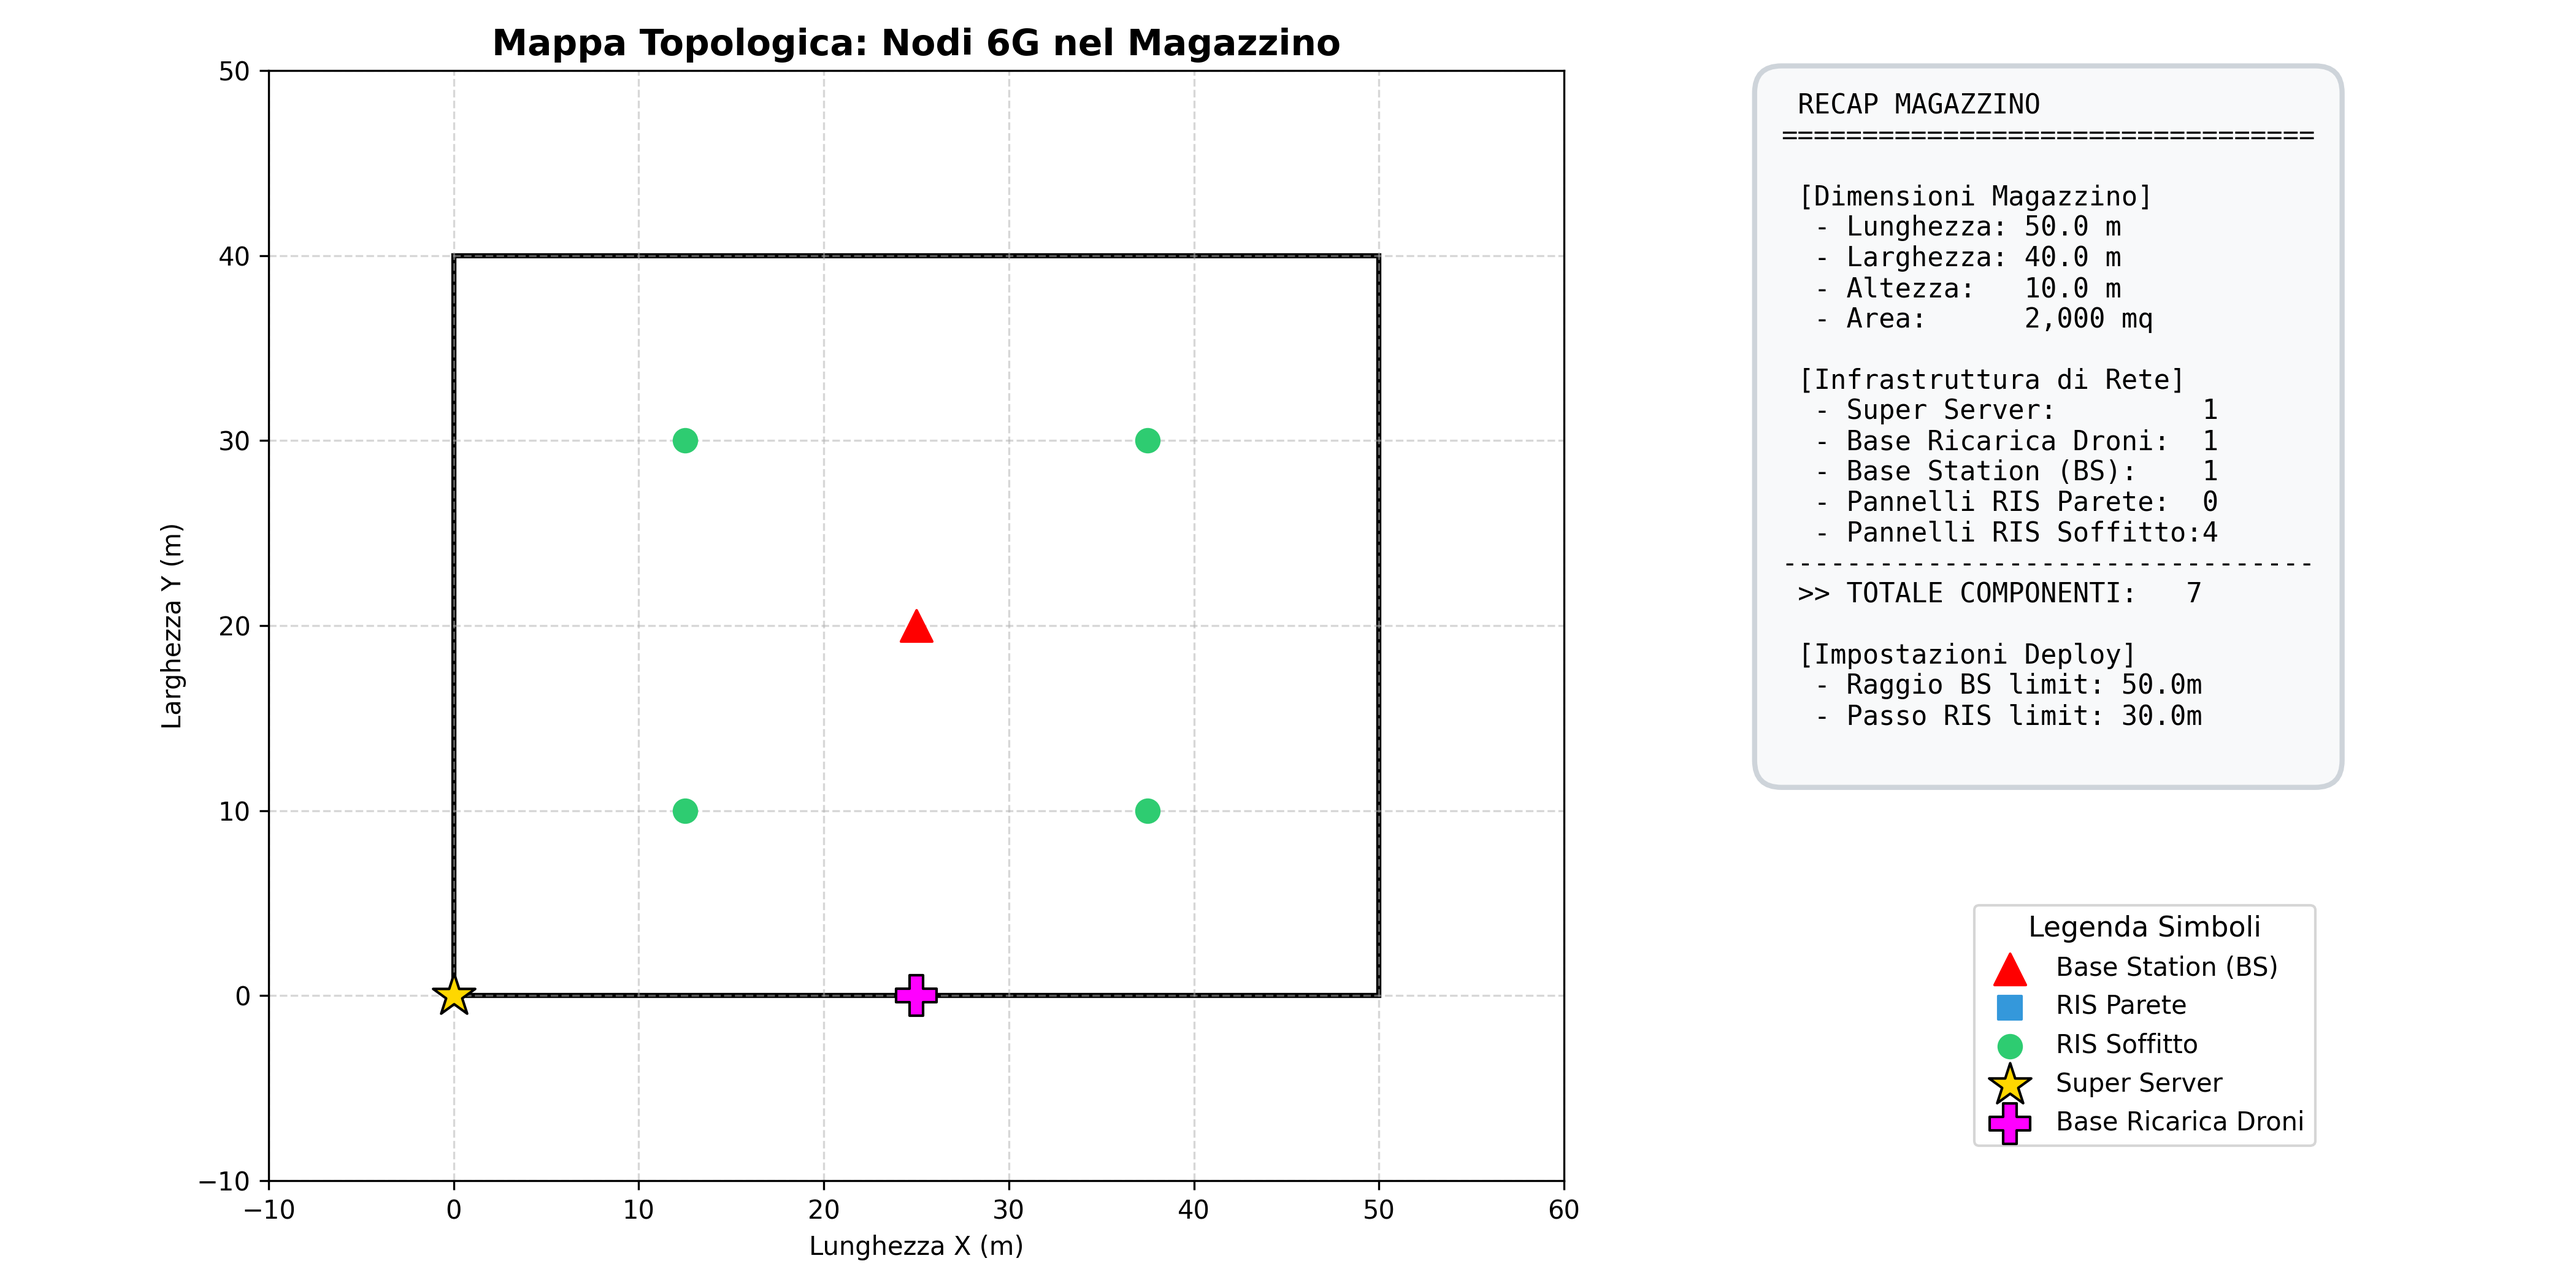
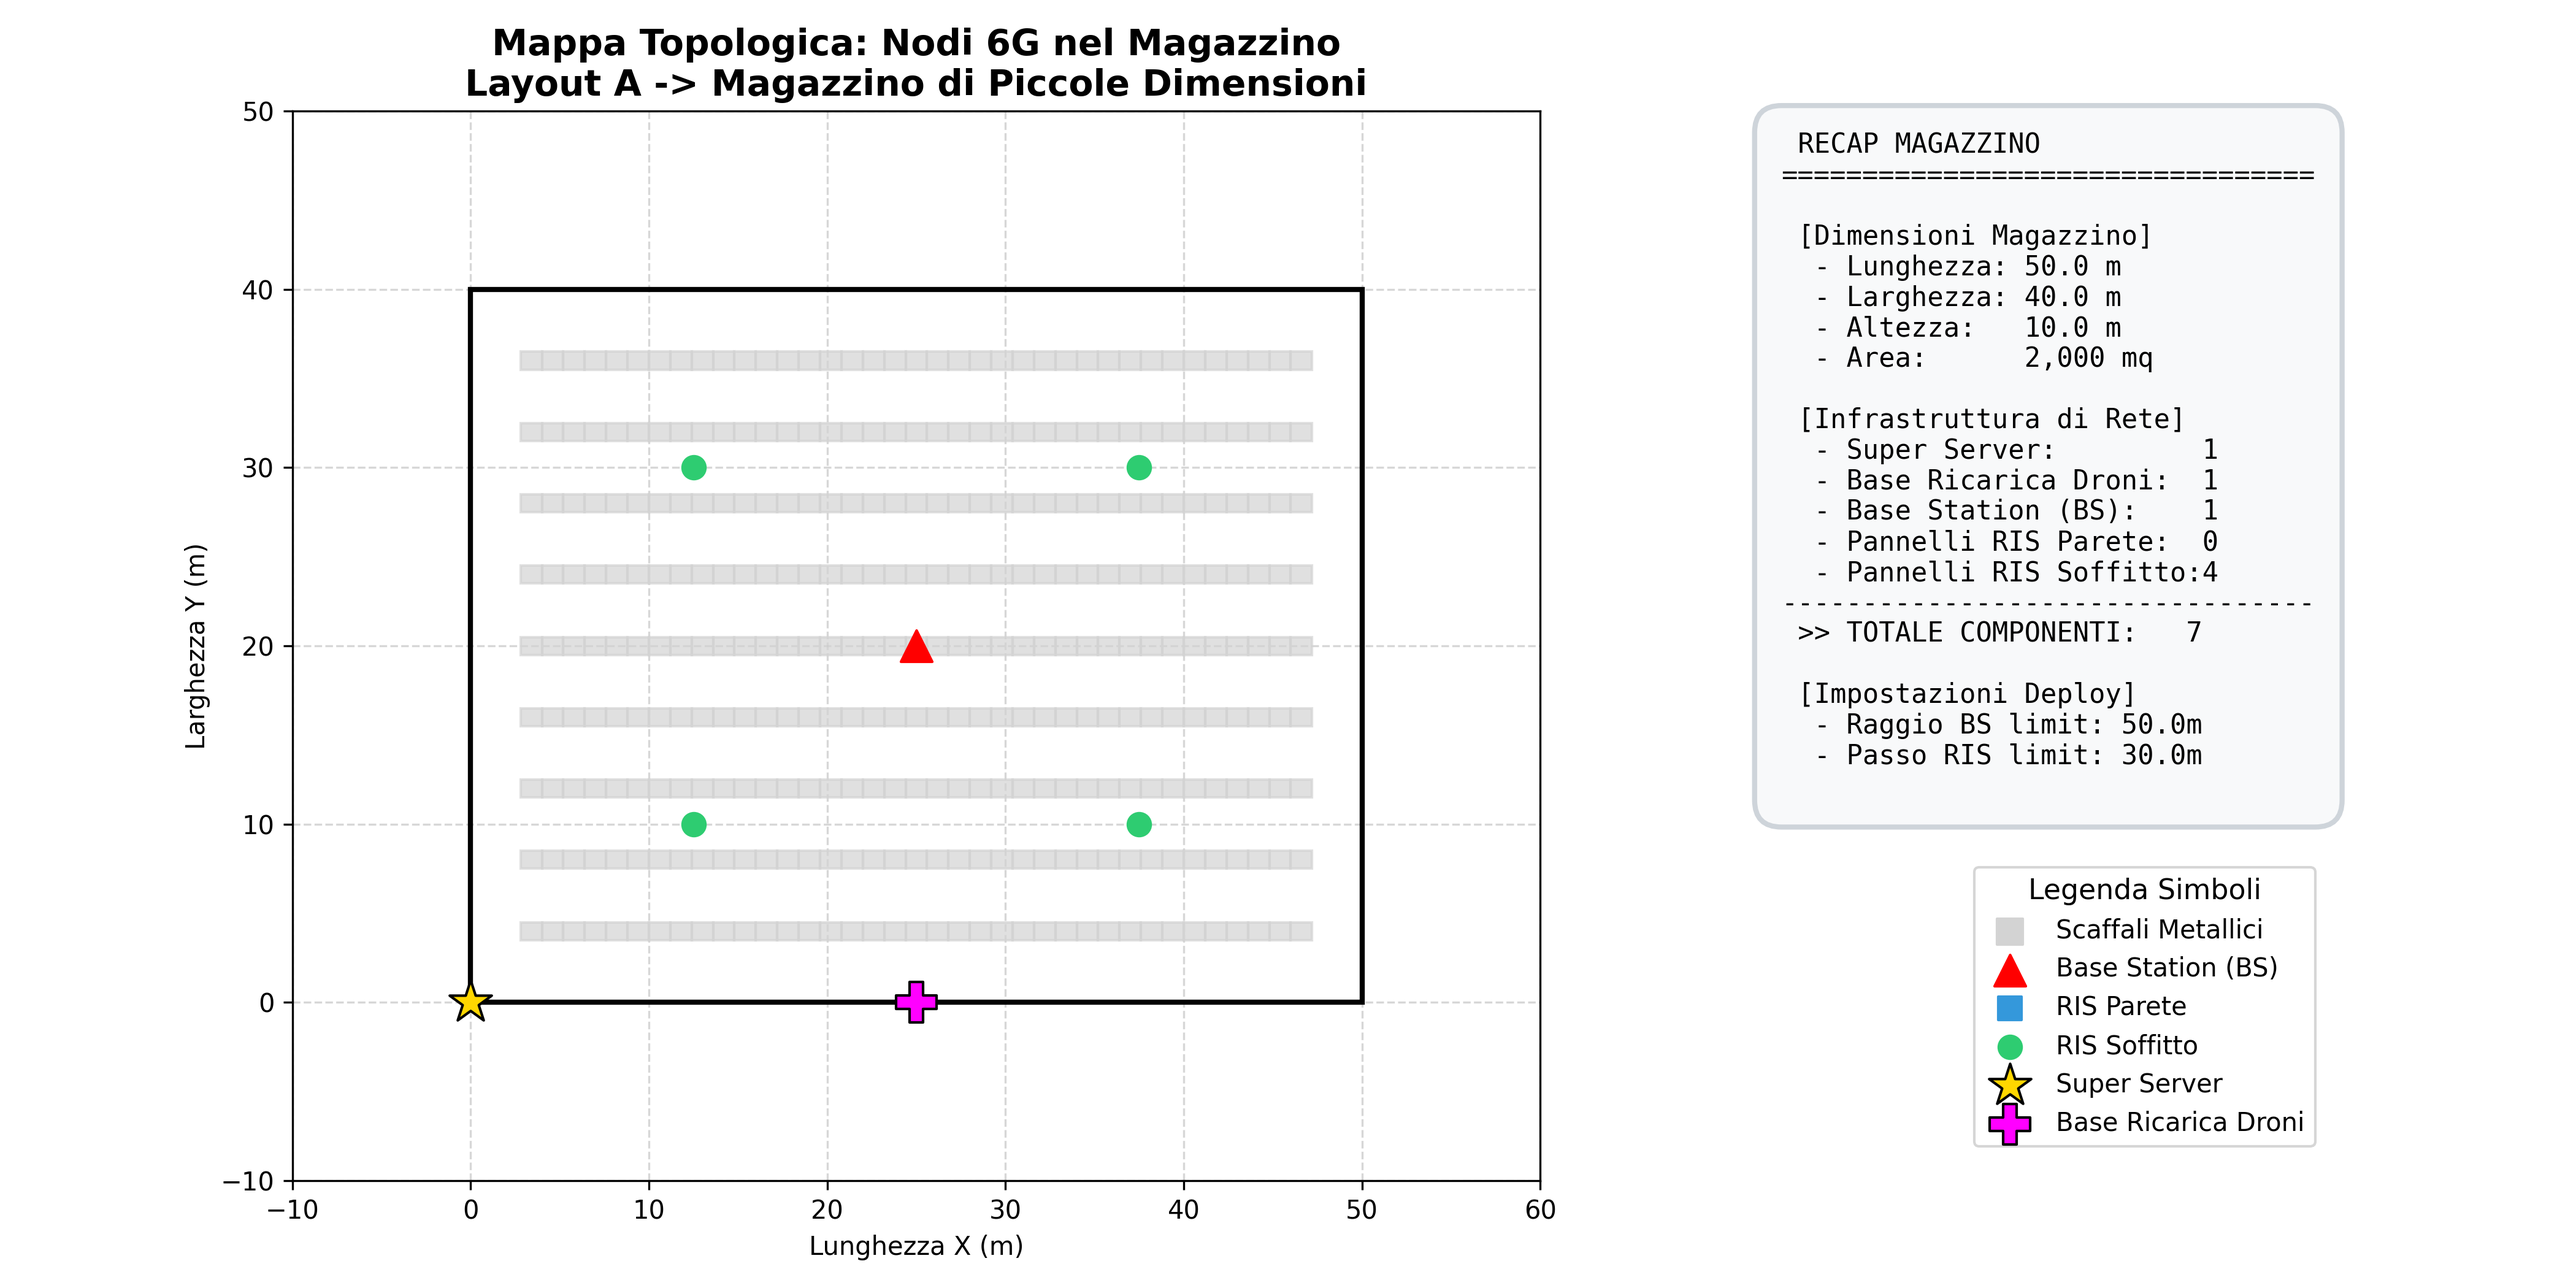
STEP 9 -> SISTEMAZIONE LAYOUT MAPPE TOPOLOGICHE

diff --git a/config.py b/config.py
@@ -130,22 +130,35 @@ class Magazzino:
         self.corridoi = []  # Coordinate Y del centro di ogni corsia
         
         # Larghezza di un corridoio (spazio vuoto tra due scaffali).
-        LARGHEZZA_CORRIDOIO = 1.5
+        LARGHEZZA_CORRIDOIO = 3.0
+        MARGIN_PERIMETRO = 2.5
+
+        spazio_disp_y = self.larghezza - (2 * MARGIN_PERIMETRO)
+        spazio_disp_x = self.lunghezza - (2 * MARGIN_PERIMETRO)
 
         # Quanti moduli "scaffale + corridoio" stanno lungo l'asse Y (larghezza)?
         passo_y = W_SCAFFALE + LARGHEZZA_CORRIDOIO
         
-        n_file_y = int(self.larghezza // passo_y)
-        if n_file_y == 0: n_file_y = 1 # Minimo 1 fila
+        n_file_y = int((spazio_disp_y + LARGHEZZA_CORRIDOIO) // passo_y)
+        if n_file_y <= 0: n_file_y = 1 # Minimo 1 fila
         
         # Quanti scaffali (L_SCAFFALE) stanno lungo l'asse X (lunghezza)?
-        n_elementi_x = int(self.lunghezza // L_SCAFFALE)
+        n_elementi_x = int(spazio_disp_x // L_SCAFFALE)
+
+        # Centratura Assoluta X e Y
+        spazio_usato_y = (n_file_y * W_SCAFFALE) + ((n_file_y - 1) * LARGHEZZA_CORRIDOIO) if n_file_y > 0 else 0
+        leftover_y = spazio_disp_y - spazio_usato_y
+        offset_y = MARGIN_PERIMETRO + max(0, leftover_y / 2.0)
+        
+        spazio_usato_x = n_elementi_x * L_SCAFFALE
+        leftover_x = spazio_disp_x - spazio_usato_x
+        offset_x = MARGIN_PERIMETRO + max(0, leftover_x / 2.0)
 
         id_scaffale = 0
         
         # Generazione griglia di scaffali
         for fila in range(n_file_y):
-            y_min = fila * passo_y
+            y_min = offset_y + fila * passo_y
             y_max = y_min + W_SCAFFALE
             
             # Il centro del corridoio si trova dopo lo scaffale
@@ -153,7 +166,7 @@ class Magazzino:
             self.corridoi.append(y_centro_corridoio)
 
             for colonna in range(n_elementi_x):
-                x_min = colonna * L_SCAFFALE
+                x_min = offset_x + colonna * L_SCAFFALE
                 x_max = x_min + L_SCAFFALE
                 
                 # Scatola di Collisione 3D per gli ostacoli (scaffali)
@@ -1171,6 +1184,14 @@ class DeploymentPlanner:
         
         self._esegui_deployment()
         
+    def _is_too_close_to_bs(self, x, y, soglia=10.0):
+        # Evita configurazioni adiacenti in cui la BS maschera/rende ridondante la RIS stessa
+        for bs in self.base_stations:
+            distanza = math.sqrt((x - bs['x'])**2 + (y - bs['y'])**2)
+            if distanza <= soglia:
+                return True
+        return False
+
     def _esegui_deployment(self):
         # 1. Deployment Server (1 istanza fissa a coordinate 0,0)
         self.server = {'x': 0.0, 'y': 0.0, 'z': 0.0}
@@ -1206,13 +1227,17 @@ class DeploymentPlanner:
             
             # Lato Inferiore (Y=0) e Superiore (Y=W_MAG)
             for x in np.arange(0, self.L_MAG, passo_ris_parete):
-                self.ris_parete.append({'x': x, 'y': 0.0, 'z': self.H_MAG / 2.0})
-                self.ris_parete.append({'x': x, 'y': self.W_MAG, 'z': self.H_MAG / 2.0})
+                if not self._is_too_close_to_bs(x, 0.0):
+                    self.ris_parete.append({'x': x, 'y': 0.0, 'z': self.H_MAG / 2.0})
+                if not self._is_too_close_to_bs(x, self.W_MAG):
+                    self.ris_parete.append({'x': x, 'y': self.W_MAG, 'z': self.H_MAG / 2.0})
                 
             # Lato Sinistro (X=0) e Destro (X=L_MAG) (escludendo gli angoli già coperti)
             for y in np.arange(passo_ris_parete, self.W_MAG, passo_ris_parete):
-                self.ris_parete.append({'x': 0.0, 'y': y, 'z': self.H_MAG / 2.0})
-                self.ris_parete.append({'x': self.L_MAG, 'y': y, 'z': self.H_MAG / 2.0})
+                if not self._is_too_close_to_bs(0.0, y):
+                    self.ris_parete.append({'x': 0.0, 'y': y, 'z': self.H_MAG / 2.0})
+                if not self._is_too_close_to_bs(self.L_MAG, y):
+                    self.ris_parete.append({'x': self.L_MAG, 'y': y, 'z': self.H_MAG / 2.0})
             
         # 4. Deployment RIS a Soffitto (A griglia interna)
         passo_ris_soffitto = R_RIS * 2.0
@@ -1224,11 +1249,14 @@ class DeploymentPlanner:
         
         for ix in range(n_ris_x):
             for iy in range(n_ris_y):
-                self.ris_soffitto.append({
-                     'x': (pr_x / 2.0) + ix * pr_x,
-                     'y': (pr_y / 2.0) + iy * pr_y,
-                     'z': self.H_MAG - 0.5
-                })
+                x_pos = (pr_x / 2.0) + ix * pr_x
+                y_pos = (pr_y / 2.0) + iy * pr_y
+                if not self._is_too_close_to_bs(x_pos, y_pos):
+                    self.ris_soffitto.append({
+                         'x': x_pos,
+                         'y': y_pos,
+                         'z': self.H_MAG - 0.5
+                    })
 
     def get_bom_report(self):
         return {
@@ -1244,7 +1272,7 @@ class DeploymentPlanner:
             'TOT_HARDWARE': 2 + len(self.base_stations) + len(self.ris_parete) + len(self.ris_soffitto)
         }
 
-    def genera_dashboard(self, filename="plot_deployment_bom.png"):
+    def genera_dashboard(self, filename="plot_deployment_bom.png", titolo_custom=None):
         print(f" > Generazione {filename} in corso ...")
         fig, (ax_mappa, ax_bom) = plt.subplots(1, 2, figsize=(14, 7), gridspec_kw={'width_ratios': [2, 1]})
         
@@ -1253,8 +1281,20 @@ class DeploymentPlanner:
         ax_mappa.set_ylim(-10, self.W_MAG + 10)
         
         # Perimetro Magazzino
-        rect = plt.Rectangle((0, 0), self.L_MAG, self.W_MAG, fill=False, color='black', linewidth=2)
+        rect = plt.Rectangle((0, 0), self.L_MAG, self.W_MAG, fill=False, color='black', linewidth=2, zorder=3)
         ax_mappa.add_patch(rect)
+        
+        # Disegno Scaffalature (Ostacoli RF)
+        temp_mag = Magazzino(self.L_MAG, self.W_MAG, self.H_MAG)
+        for scaffale in temp_mag.scaffali:
+            s_rect = plt.Rectangle((scaffale['x_min'], scaffale['y_min']), 
+                                   scaffale['x_max'] - scaffale['x_min'], 
+                                   scaffale['y_max'] - scaffale['y_min'], 
+                                   fill=True, color='lightgray', alpha=0.7, zorder=2)
+            ax_mappa.add_patch(s_rect)
+            
+        # Per far comparire gli scaffali almeno "una volta" nella legenda, uso un trucco invisibile
+        ax_mappa.scatter([], [], c='lightgray', marker='s', s=100, label='Scaffali Metallici')
         
         # Plot Base Stations
         bs_x = [b['x'] for b in self.base_stations]
@@ -1277,7 +1317,10 @@ class DeploymentPlanner:
         # Plot Base Ricarica
         ax_mappa.scatter([self.base_ricarica['x']], [self.base_ricarica['y']], c='magenta', marker='P', s=250, edgecolors='black', label='Base Ricarica Droni', zorder=6)
         
-        ax_mappa.set_title("Mappa Topologica: Nodi 6G nel Magazzino", fontsize=14, fontweight='bold')
+        titolo_base = "Mappa Topologica: Nodi 6G nel Magazzino"
+        titolo_completo = f"{titolo_base}\n{titolo_custom}" if titolo_custom else titolo_base
+        ax_mappa.set_title(titolo_completo, fontsize=14, fontweight='bold')
+        
         ax_mappa.set_xlabel("Lunghezza X (m)")
         ax_mappa.set_ylabel("Larghezza Y (m)")
         # La legenda verrà posizionata nel pannello di destra
@@ -1427,9 +1470,10 @@ if __name__ == "__main__":
             print("2. [Test 2] Resilienza Rete e Guasto RIS")
             print("3. [Test 3] Collo di Bottiglia (Mass RTH e congestione)")
             print("4. [Test 4] Confronto Assorbimenti (Super Server vs Always-ON)")
+            print("5. [Strumento Tesi] Genera Batch 3 Cartine Topologiche (Casi A, B, C)")
             print("0. Esci")
             
-            scelta = input(" -> Quale test vuoi eseguire? (1-4, 0 per uscire): ")
+            scelta = input(" -> Quale test vuoi eseguire? (1-5, 0 per uscire): ")
             
             # Garantiamo che il DB sia sempre caricato prima del test
             db = DatabaseManager('telemetria.db')
@@ -1448,6 +1492,19 @@ if __name__ == "__main__":
             elif scelta == '4':
                 engine.test4_confronto_energetico()
                 plotter.plot_risparmio_energetico()
+            elif scelta == '5':
+                print("\n=== [TESI] Generazione Automatica Batch Cartine Topologiche ===")
+                casi = [
+                    {"nome": "Caso_A", "titolo": "Layout A -> Magazzino di Piccole Dimensioni", "L": 50, "W": 40, "H": 10},
+                    {"nome": "Caso_B", "titolo": "Layout B -> Magazzino di Medie Dimensioni", "L": 100, "W": 100, "H": 10},
+                    {"nome": "Caso_C", "titolo": "Layout C -> Magazzino di Grandi Dimensioni", "L": 250, "W": 140, "H": 15}
+                ]
+                for caso in casi:
+                    print(f"=> Elaborazione {caso['nome']} ({caso['L']}x{caso['W']}x{caso['H']} m)")
+                    planner = DeploymentPlanner(caso['L'], caso['W'], caso['H'])
+                    filename = f"plot_deployment_bom_{caso['nome']}.png"
+                    planner.genera_dashboard(filename, titolo_custom=caso['titolo'])
+                print("\n=== Tutte le 3 cartine sono state generate ed esportate con successo! ===")
             else:
                 print("Uscita...")
             
